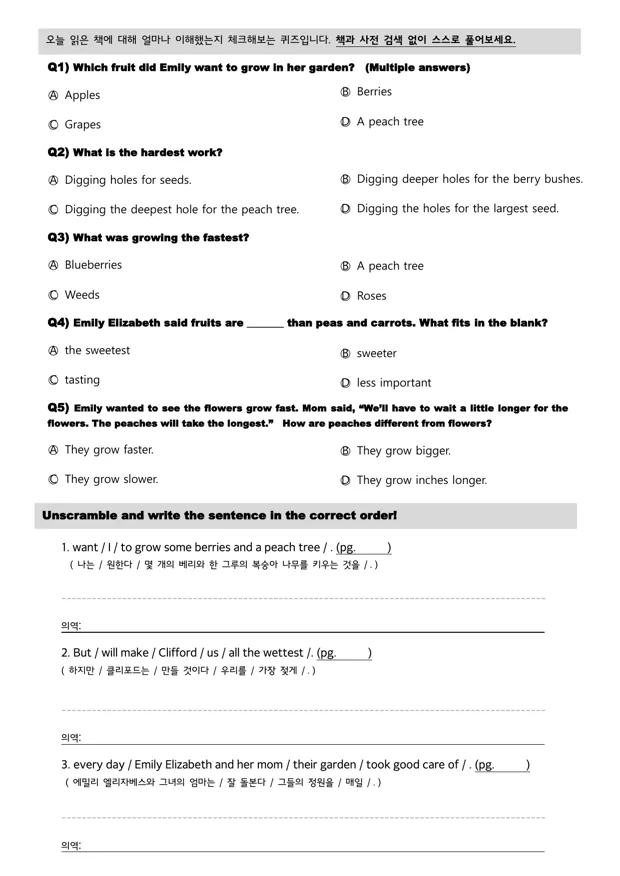
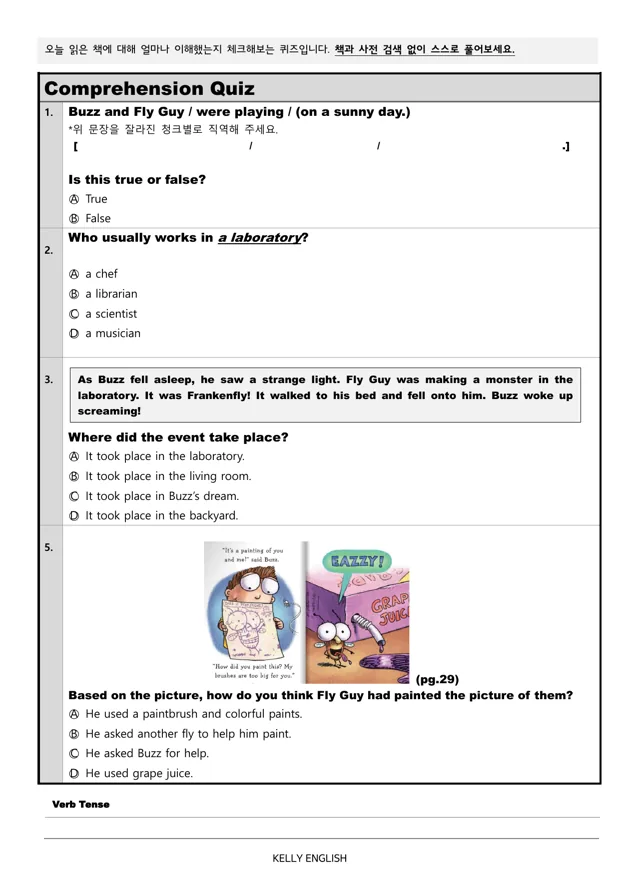
Use the Fly Guy sheet for the Level A quiz line
Claude-Session: https://claude.ai/code/session_013jdryxY7pCTTzQasu2xv1W

Changed region(s): [[0.0306, 0.0308, 0.9806, 0.9247], [0.0919, 0.9555, 0.8581, 0.9863]]

diff --git a/index.html b/index.html
@@ -1040,18 +1040,18 @@ dialog::backdrop{background:rgba(15,20,48,.86)}
         </div>
         <div class="qs-row">
           <div class="qs-pair">
-              <button class="qs-page" type="button" data-zoom="assets/quiz/quiz-a2.webp" data-zoom-alt="Level A A 퀴즈 라인 퀴즈시트 앞장과 뒷장" aria-label="Level A A 퀴즈 라인 퀴즈시트 앞장 크게 보기"><img src="assets/quiz/quiz-a2-1.webp" width="620" height="876" loading="lazy" alt="Level A A 퀴즈 라인 퀴즈시트 앞장"><span>앞장</span></button>
-              <button class="qs-page" type="button" data-zoom="assets/quiz/quiz-a2.webp" data-zoom-alt="Level A A 퀴즈 라인 퀴즈시트 앞장과 뒷장" aria-label="Level A A 퀴즈 라인 퀴즈시트 뒷장 크게 보기"><img src="assets/quiz/quiz-a2-2.webp" width="620" height="876" loading="lazy" alt="Level A A 퀴즈 라인 퀴즈시트 뒷장"><span>뒷장</span></button>
+              <button class="qs-page" type="button" data-zoom="assets/quiz/quiz-a2.webp?v=2" data-zoom-alt="Level A A 퀴즈 라인 퀴즈시트 앞장과 뒷장" aria-label="Level A A 퀴즈 라인 퀴즈시트 앞장 크게 보기"><img src="assets/quiz/quiz-a2-1.webp?v=2" width="620" height="876" loading="lazy" alt="Level A A 퀴즈 라인 퀴즈시트 앞장"><span>앞장</span></button>
+              <button class="qs-page" type="button" data-zoom="assets/quiz/quiz-a2.webp?v=2" data-zoom-alt="Level A A 퀴즈 라인 퀴즈시트 앞장과 뒷장" aria-label="Level A A 퀴즈 라인 퀴즈시트 뒷장 크게 보기"><img src="assets/quiz/quiz-a2-2.webp?v=2" width="620" height="876" loading="lazy" alt="Level A A 퀴즈 라인 퀴즈시트 뒷장"><span>뒷장</span></button>
           </div>
           <div class="qs-desc">
-            <p class="qs-glabel"><strong>A 퀴즈 라인</strong><span>Clifford A2 · Emily Elizabeth’s Garden</span></p>
+            <p class="qs-glabel"><strong>A 퀴즈 라인</strong><span>Fly Guy · Fly Guy and the Frankenfly</span></p>
             <dl class="qs-rows">
-              <div><dt>퀴즈 유형</dt><dd><ul class="qs-chips"><li>주어 ○ · 동사 △ 표시</li><li>과거형으로 바꿔 쓰기</li><li>비교급 빈칸</li><li>문장 순서 맞추기 + 의역</li></ul></dd></div>
-              <div><dt>목적</dt><dd>따로 외운 문법이 아니라 방금 읽은 책 문장에 바로 적용하며, 문법과 독해를 한 시트에서 함께 다집니다.</dd></div>
+              <div><dt>퀴즈 유형</dt><dd><ul class="qs-chips"><li>동사 찾아 시제 · 의문문으로 바꾸기</li><li>청크별 직역</li><li>배경지식 · 장소 추론</li><li>그림 단서 추론</li></ul></dd></div>
+              <div><dt>목적</dt><dd>따로 외운 문법이 아니라 방금 읽은 책 문장을 현재형 · 의문문으로 바꿔 쓰며, 문법과 독해를 한 시트에서 함께 다집니다.</dd></div>
               <div><dt>학습 효과</dt><dd><ul class="ticks qs-ticks">
-                <li>주어 · 동사 · 시제 감각이 책 문장 속에서 자리 잡습니다.</li>
-                <li>비교급 · 최상급 같은 문법을 내용 이해 문제 속에서 다시 확인합니다.</li>
-                <li>정답이 여러 개인 문제로 보기를 끝까지 읽는 습관이 생깁니다.</li>
+                <li>동사를 찾아 시제와 문장 형태를 바꾸며 문법 감각이 책 문장 속에서 자리 잡습니다.</li>
+                <li>문장을 의미 단위(청크)로 끊어 직역하며 영어 어순 그대로 이해하는 힘을 기릅니다.</li>
+                <li>꿈속 장면인지, 무엇으로 그렸는지 같은 단서 추론으로 행간을 읽기 시작합니다.</li>
               </ul></dd></div>
             </dl>
           </div>
